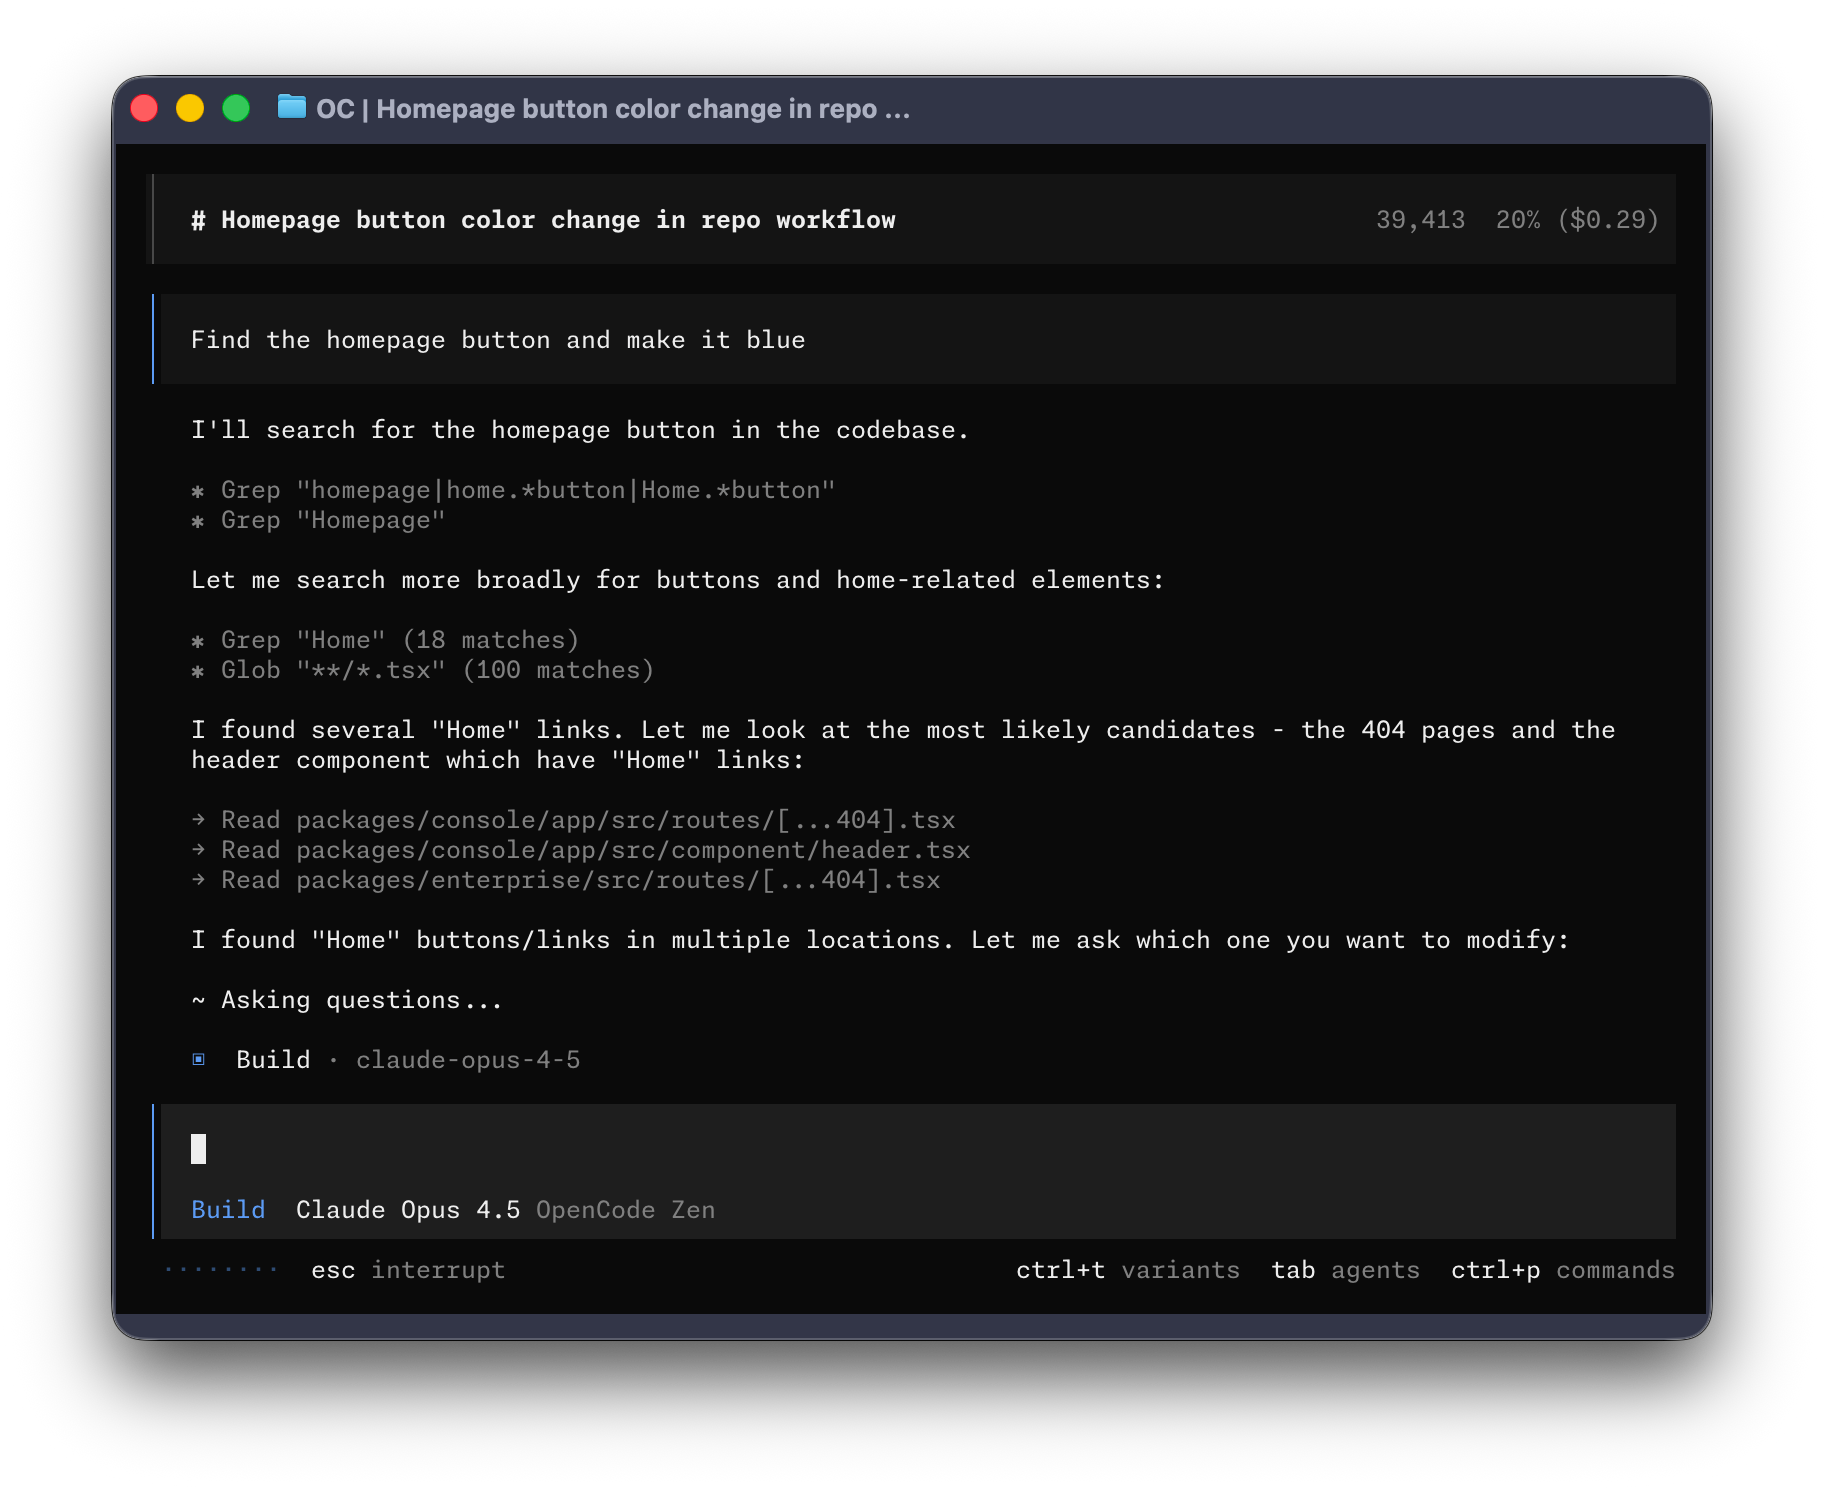
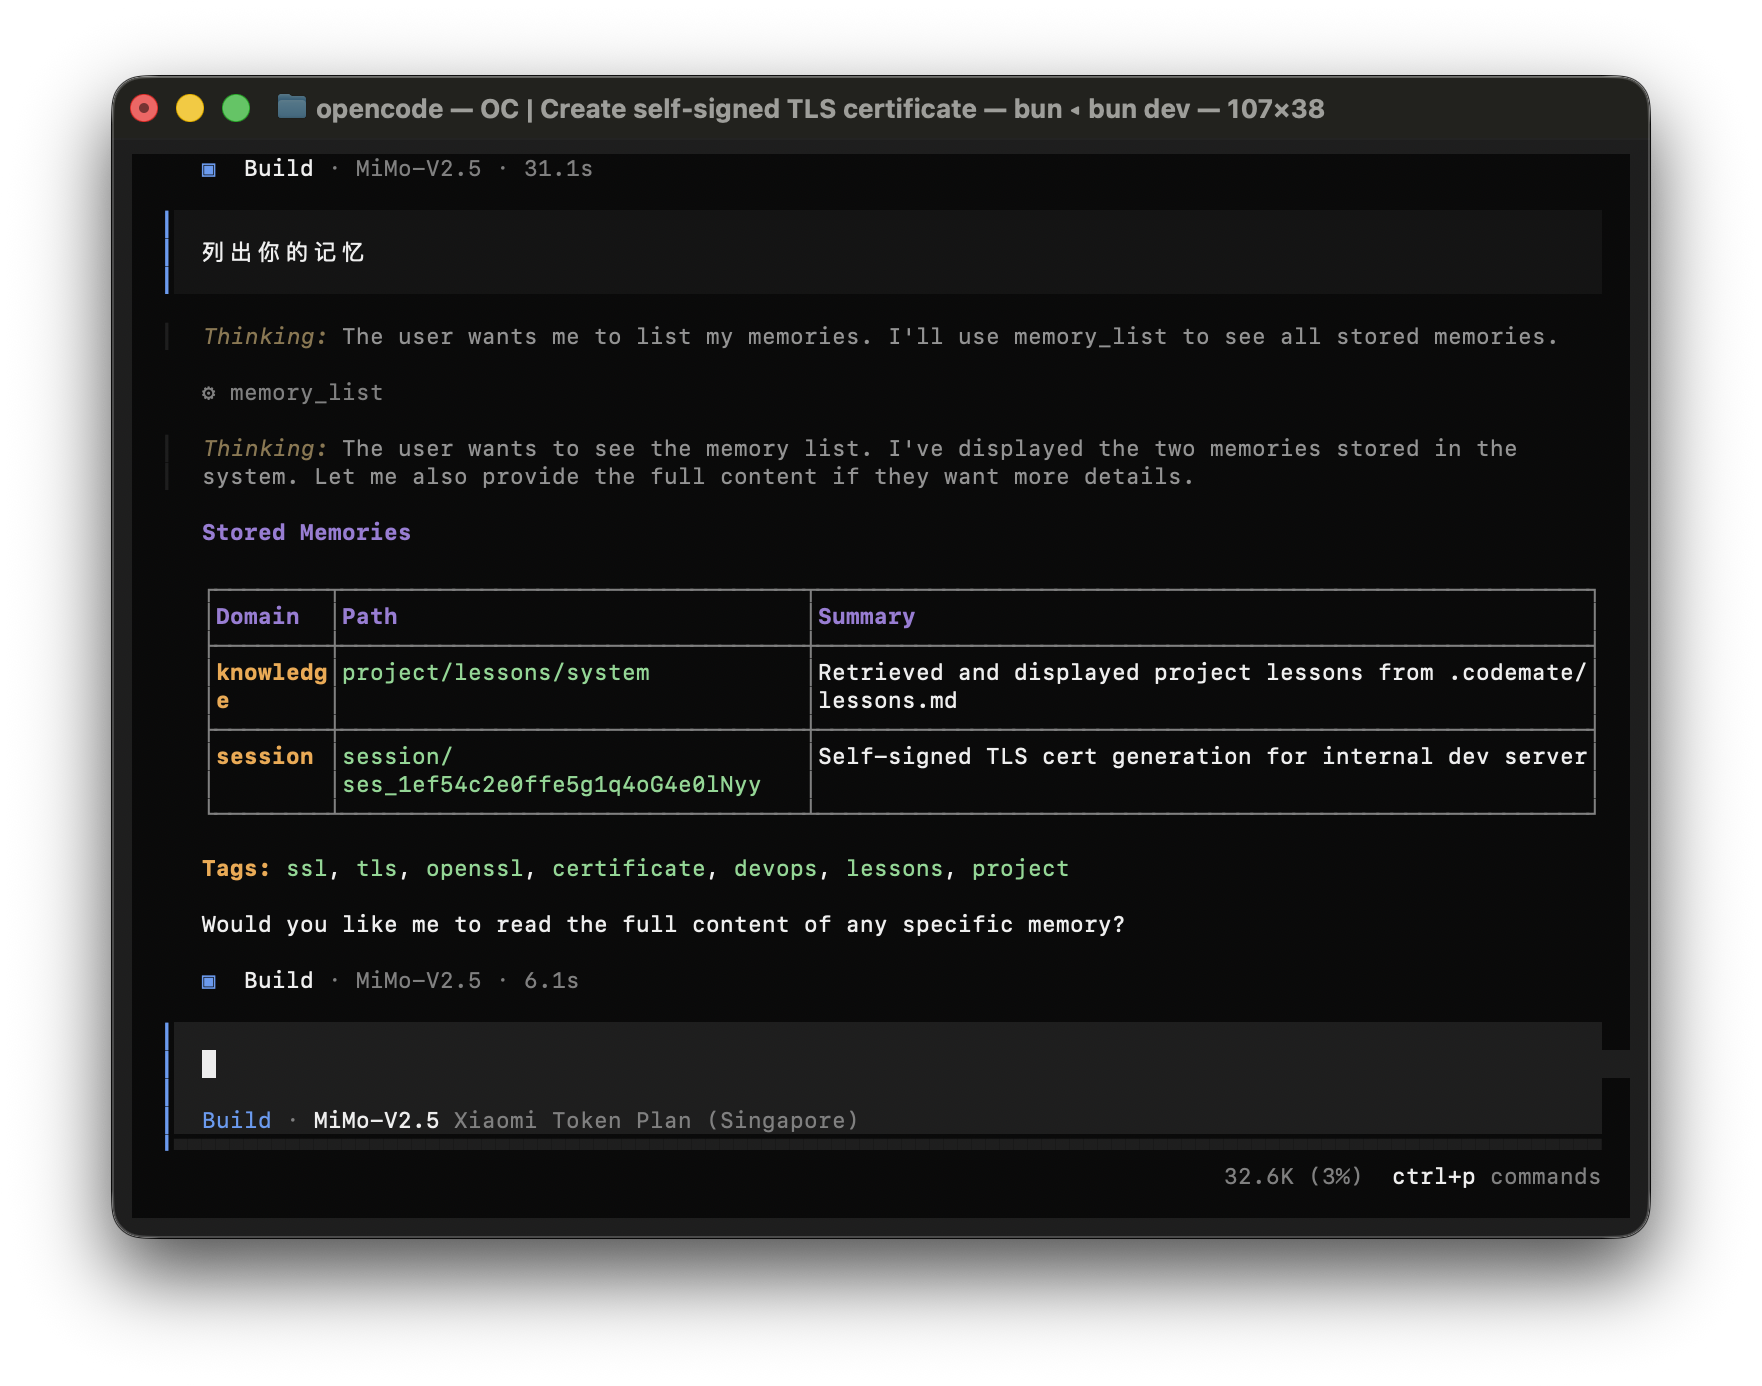
fix: restore token util and update README screenshot

diff --git a/packages/codemate/src/util/token.ts b/packages/codemate/src/util/token.ts
@@ -1,0 +1,7 @@
+const CHARS_PER_TOKEN = 4
+
+export function estimate(input: string) {
+  return Math.max(0, Math.round((input || "").length / CHARS_PER_TOKEN))
+}
+
+export * as Token from "./token"